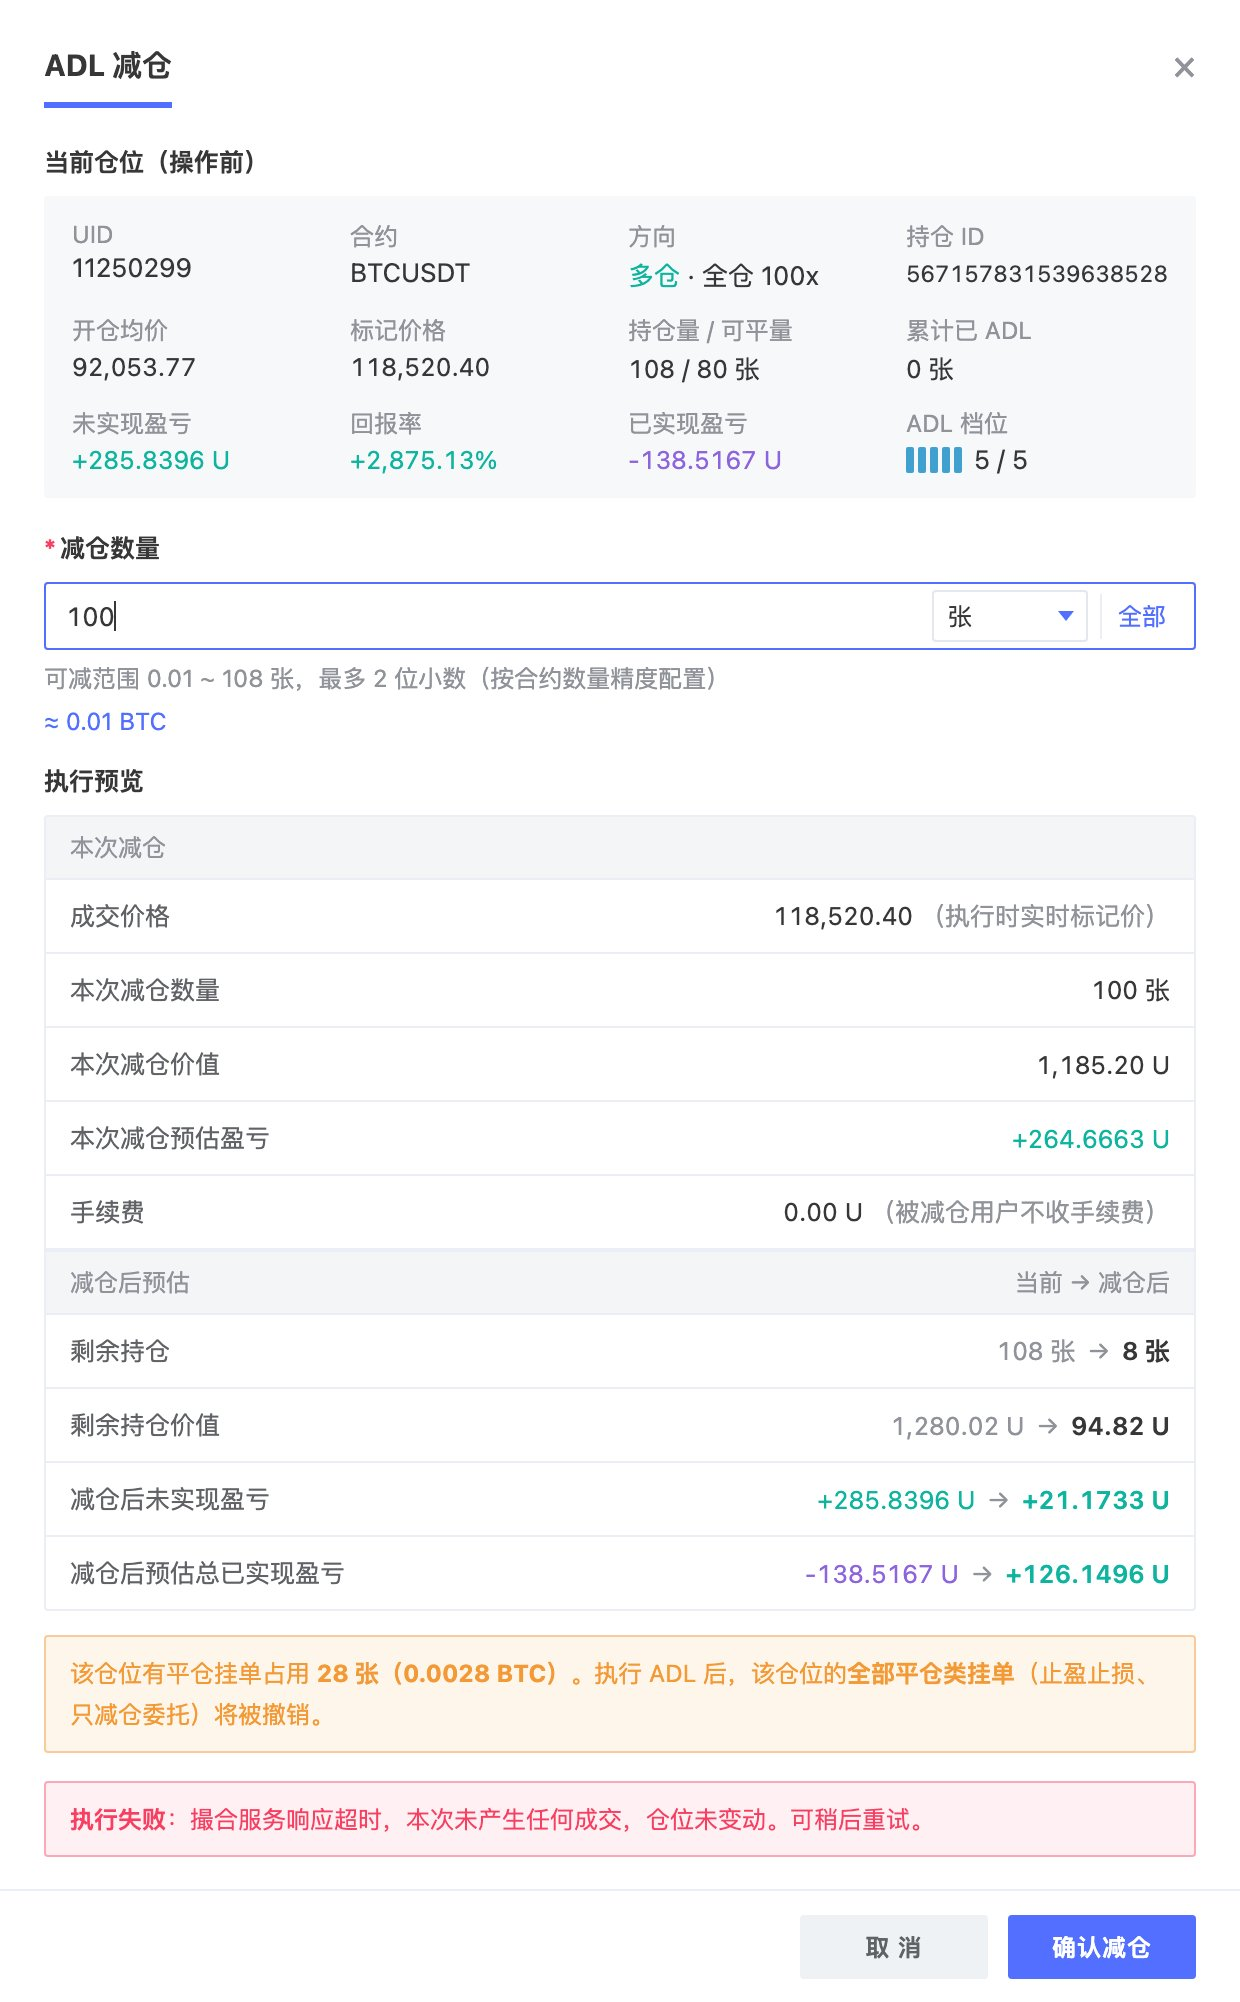
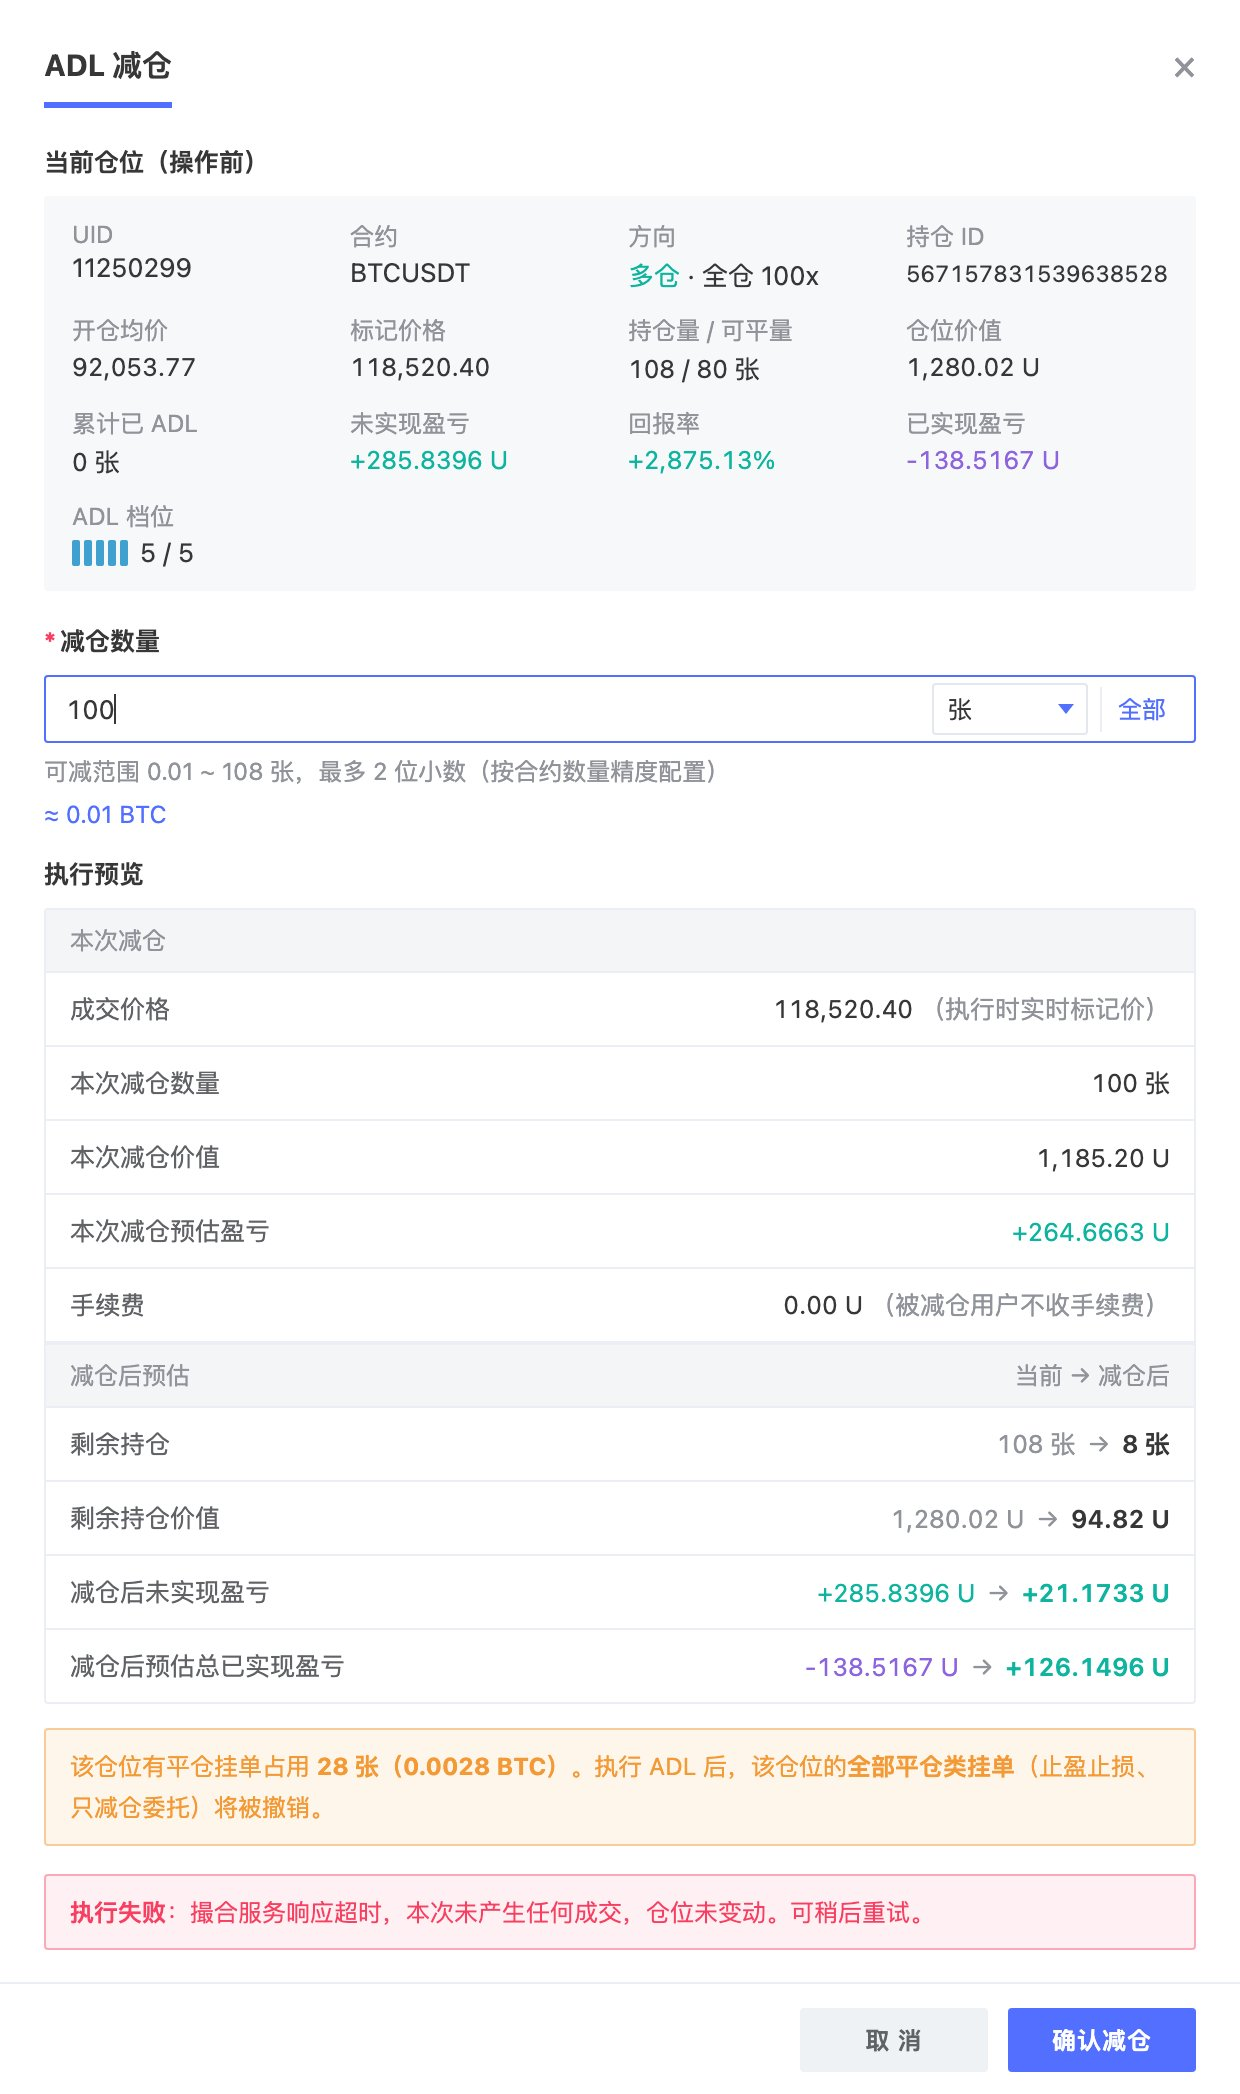
change: ADL减仓弹窗操作前仓位新增'仓位价值';PRD V2.3 同步

diff --git a/中台ADL减仓_PRD_V1.0.html b/中台ADL减仓_PRD_V1.0.html
@@ -74,7 +74,7 @@
 
 <div class="cover">
   <h1>中台 ADL 减仓 PRD</h1>
-  <div class="ver">版本 V2.2 · 2026-10-12 · 修订人 Rhys</div>
+  <div class="ver">版本 V2.3 · 2026-10-12 · 修订人 Rhys</div>
   <div class="sub">需求类型：0→1 · 规模 L ｜ 配套原型：<a href="https://forclaudecode.vercel.app/1009-中台ADL减仓.html">1009-中台ADL减仓.html</a> ｜ 规则来源：规则台账_ADL减仓 v1.0（R01–R19）</div>
 </div>
 
@@ -265,7 +265,7 @@ flowchart LR
 <table>
   <tr><th>区域</th><th>元素</th><th>说明</th></tr>
   <tr><td>标题</td><td>「ADL 减仓」</td><td>—</td></tr>
-  <tr><td>当前仓位（操作前，只读）</td><td>UID、合约、方向（多 / 空 · 保证金模式 · 杠杆）、持仓 ID、开仓均价、标记价格、持仓量 / 可平量、累计已 ADL（这两项的单位跟随下方减仓数量的「张 | 币」切换；打开弹窗时默认与列表所选单位一致）、未实现盈亏、回报率、已实现盈亏、ADL 档位（不显示账户类型）</td><td>固定展示操作前的数据，输入数量后<strong>不变</strong>；减仓前后的变化统一在「执行预览」中对比展示。</td></tr>
+  <tr><td>当前仓位（操作前，只读）</td><td>UID、合约、方向（多 / 空 · 保证金模式 · 杠杆）、持仓 ID、开仓均价、标记价格、持仓量 / 可平量、仓位价值（U，按当前标记价格）、累计已 ADL（持仓量 / 可平量与累计已 ADL 的单位跟随下方减仓数量的单位下拉；打开弹窗时默认与列表所选单位一致）、未实现盈亏、回报率、已实现盈亏、ADL 档位（不显示账户类型）</td><td>固定展示操作前的数据，输入数量后<strong>不变</strong>；减仓前后的变化统一在「执行预览」中对比展示。</td></tr>
   <tr><td rowspan="5">减仓数量</td><td>输入框（必填）</td><td>可输入整数或小数。</td></tr>
   <tr><td>单位下拉（张 / 币 / USDT）</td><td>下拉框，「币」选项显示合约币种（如 BTC）。选 USDT 时，按<strong>输入时的标记价格</strong>折算为张数，并向下取整到合约张数精度，执行时按折算后的张数减仓；因此实际成交价值可能与输入的 USDT 略有差异（预览中「本次减仓价值」显示折算后的值）。USDT 最多 2 位小数；折算后不足最小张数时提示「按当前标记价折算不足最小数量」。<span class="tag-td">⚠ P21 折算规则与 USDT 精度待确认</span>默认跟随列表当前单位。切换后，上方仓位信息中的持仓量 / 可平量、累计已 ADL 同步切换单位，输入框占位文字同步为「请输入要减仓的张数 / 请输入要减仓的 BTC 数量」。切换时，已输入的合法数值自动换算（如 50.5 张 ⇄ 0.00505 BTC）。</td></tr>
   <tr><td>「全部」</td><td>按当前单位填入全部持仓量。</td></tr>
@@ -449,6 +449,7 @@ flowchart LR
   <tr><td>V2.0</td><td>2026-10-12</td><td>初稿（评审前）</td><td>中台筛选「订单 ID」改「持仓 ID」、删除「保证金模式」；减仓弹窗删除「账户类型」；列表与弹窗单位改为下拉框并新增 USDT（按标记价折算，新增 P21）；图 1、2、4、5 重截</td><td>PM 反馈</td></tr>
   <tr><td>V2.1</td><td>2026-10-12</td><td>初稿（评审前）</td><td>减仓弹窗重新整理：上方固定为「当前仓位（操作前）」；执行预览分「本次减仓」（成交价、数量、价值、本次减仓预估盈亏、手续费）与「减仓后预估」（剩余持仓、剩余持仓价值、减仓后未实现盈亏、减仓后预估总已实现盈亏，均以「当前 → 减仓后」展示）；图 2、图 4 重截</td><td>业务方反馈：弹窗信息有点乱，希望前后对比更直观</td></tr>
   <tr><td>V2.2</td><td>2026-10-12</td><td>初稿（评审前）</td><td>历史仓位改为沿用现有按仓位聚合的展示方式（部分平仓也展示、平仓时间为最近一次），ADL 统一显示「ADL」标签，取消「ADL 部分减仓 / 全部平仓」区分；P18 改为标签规则；图 10-1、13、17 重截</td><td>PM 提供现有手动减仓的历史仓位截图</td></tr>
+  <tr><td>V2.3</td><td>2026-10-12</td><td>初稿（评审前）</td><td>减仓弹窗「当前仓位（操作前）」新增「仓位价值」；图 2、图 4 重截</td><td>PM 反馈</td></tr>
 </table>
 
 </div></div>

diff --git a/1009-中台ADL减仓.html b/1009-中台ADL减仓.html
@@ -674,7 +674,7 @@ function fillInfo(){
   const qtyCell=(q,a)=>`<span class="num">${qn(r,q,mUnit)} / ${qn(r,a,mUnit)} ${ul(r,mUnit)}</span>`;
   $('adlInfo').innerHTML=[
     ['UID',r.uid],['合约',r.sym],['方向',`<span class="${r.side==='L'?'side-l':'side-s'}">${r.side==='L'?'多仓':'空仓'}</span> · ${r.mm} ${r.lev}x`],['持仓 ID',`<span class="num" style="font-size:11.5px">${r.pid}</span>`],
-    ['开仓均价',`<span class="num">${fmt(r.entry,pd)}</span>`],['标记价格',`<span class="num">${fmt(c.mark,pd)}</span>`],['持仓量 / 可平量',ch(qtyCell(r.qty,r.avail),left===0?`<span class="num">0 / 0 ${ul(r,mUnit)}</span>`:qtyCell(left,left))],['累计已 ADL',`<span class="num">${qt(r,adl2,mUnit)}</span>`],
+    ['开仓均价',`<span class="num">${fmt(r.entry,pd)}</span>`],['标记价格',`<span class="num">${fmt(c.mark,pd)}</span>`],['持仓量 / 可平量',ch(qtyCell(r.qty,r.avail),left===0?`<span class="num">0 / 0 ${ul(r,mUnit)}</span>`:qtyCell(left,left))],['仓位价值',`<span class="num">${fmt(c.value)} U</span>`],['累计已 ADL',`<span class="num">${qt(r,adl2,mUnit)}</span>`],
     ['未实现盈亏',ch(`<span class="num ${cls(c.upnl)}">${sgn(c.upnl)} U</span>`,`<span class="num ${cls(up2)}">${sgn(up2)} U</span>`)],['回报率',`<span class="num ${cls(c.roe)}">${sgn(c.roe*100,2)}%</span>`],['已实现盈亏',ch(`<span class="num ${cls(r.rpnl)}">${sgn(r.rpnl)} U</span>`,`<span class="num ${cls(rp2)}">${sgn(rp2)} U</span>`)],['ADL 档位',ltHtml(r.light)],
   ].map(([k,v])=>`<div><div class="k">${k}</div><div class="v">${v}</div></div>`).join('');
   const d=udec(r,mUnit),min=Math.pow(10,-ZDEC)*per(r,mUnit);
